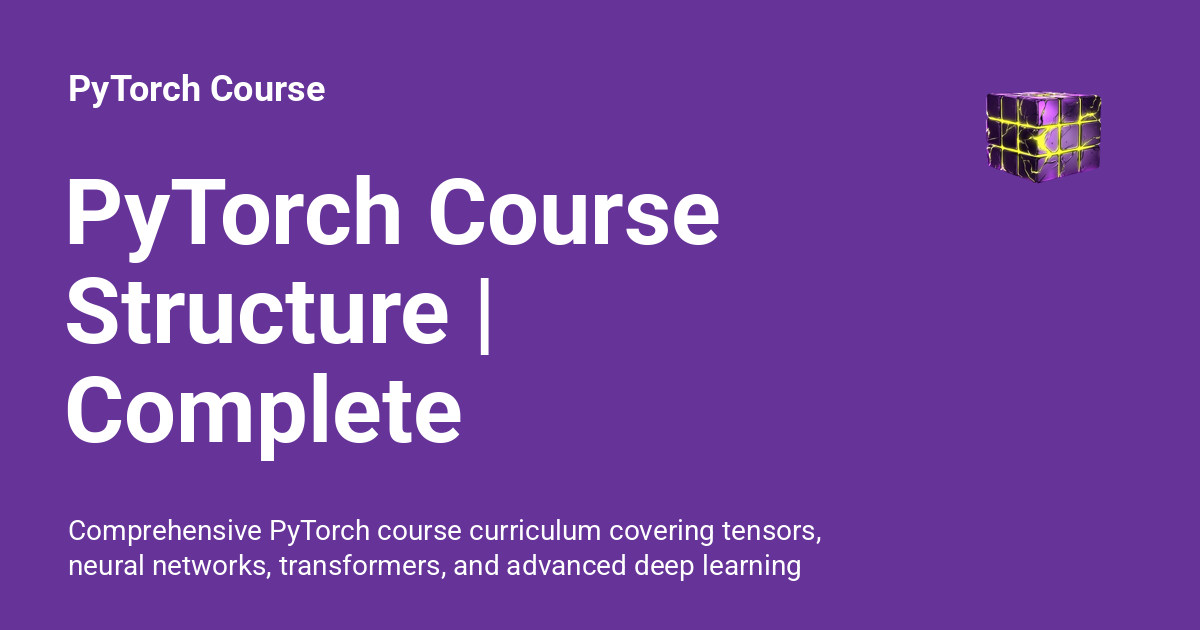
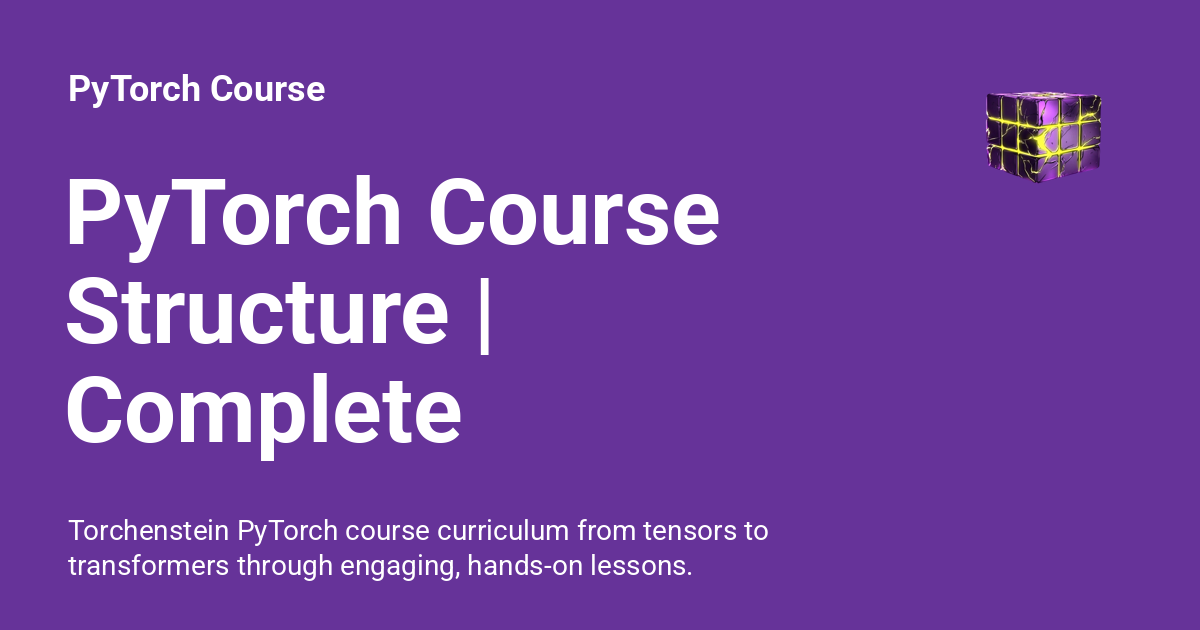
deploy: 9fb88c101fd7117bfc05d190336c58501317d0a7

Changed region(s): [[0.0617, 0.8143, 0.6783, 0.9349]]

diff --git a/pytorch_course_structure/index.html b/pytorch_course_structure/index.html
@@ -6,7 +6,7 @@
       <meta charset="utf-8">
       <meta name="viewport" content="width=device-width,initial-scale=1">
       
-        <meta name="description" content="Comprehensive PyTorch course curriculum covering tensors, neural networks, transformers, and advanced deep learning techniques from first principles.">
+        <meta name="description" content="Torchenstein PyTorch course curriculum from tensors to transformers through engaging, hands-on lessons.">
       
       
         <meta name="author" content="Krzysztof Sopyła">
@@ -77,7 +77,7 @@
       
         <meta  property="og:title"  content="PyTorch Course Structure | Complete Curriculum Roadmap - PyTorch Course" >
       
-        <meta  property="og:description"  content="Comprehensive PyTorch course curriculum covering tensors, neural networks, transformers, and advanced deep learning techniques from first principles." >
+        <meta  property="og:description"  content="Torchenstein PyTorch course curriculum from tensors to transformers through engaging, hands-on lessons." >
       
         <meta  property="og:image"  content="https://pytorchcourse.com/assets/images/social/pytorch_course_structure.png" >
       
@@ -93,7 +93,7 @@
       
         <meta  name="twitter:title"  content="PyTorch Course Structure | Complete Curriculum Roadmap - PyTorch Course" >
       
-        <meta  name="twitter:description"  content="Comprehensive PyTorch course curriculum covering tensors, neural networks, transformers, and advanced deep learning techniques from first principles." >
+        <meta  name="twitter:description"  content="Torchenstein PyTorch course curriculum from tensors to transformers through engaging, hands-on lessons." >
       
         <meta  name="twitter:image"  content="https://pytorchcourse.com/assets/images/social/pytorch_course_structure.png" >
       
@@ -125,7 +125,7 @@
     
     "name": "PyTorch Course Structure | Complete Curriculum Roadmap",
     "headline": "PyTorch Course Structure | Complete Curriculum Roadmap",
-    "description": "Comprehensive PyTorch course curriculum covering tensors, neural networks, transformers, and advanced deep learning techniques from first principles.",
+    "description": "Torchenstein PyTorch course curriculum from tensors to transformers through engaging, hands-on lessons.",
     
     
     
@@ -192,7 +192,7 @@
     ,"datePublished": "2025-05-17 13:27:41"
     
     
-    ,"dateModified": "2025-10-11 18:23:02"
+    ,"dateModified": "2025-10-13 19:14:42"
     
   }
   </script>
@@ -2551,7 +2551,7 @@ What you will learn:
     <span class="md-icon" title="Last update">
       <svg xmlns="http://www.w3.org/2000/svg" viewBox="0 0 24 24"><path d="M21 13.1c-.1 0-.3.1-.4.2l-1 1 2.1 2.1 1-1c.2-.2.2-.6 0-.8l-1.3-1.3c-.1-.1-.2-.2-.4-.2m-1.9 1.8-6.1 6V23h2.1l6.1-6.1zM12.5 7v5.2l4 2.4-1 1L11 13V7zM11 21.9c-5.1-.5-9-4.8-9-9.9C2 6.5 6.5 2 12 2c5.3 0 9.6 4.1 10 9.3-.3-.1-.6-.2-1-.2s-.7.1-1 .2C19.6 7.2 16.2 4 12 4c-4.4 0-8 3.6-8 8 0 4.1 3.1 7.5 7.1 7.9l-.1.2z"/></svg>
     </span>
-    <span class="git-revision-date-localized-plugin git-revision-date-localized-plugin-date" title="October 11, 2025 18:23:02 UTC">October 11, 2025</span>
+    <span class="git-revision-date-localized-plugin git-revision-date-localized-plugin-date" title="October 13, 2025 19:14:42 UTC">October 13, 2025</span>
   </span>
 
     
